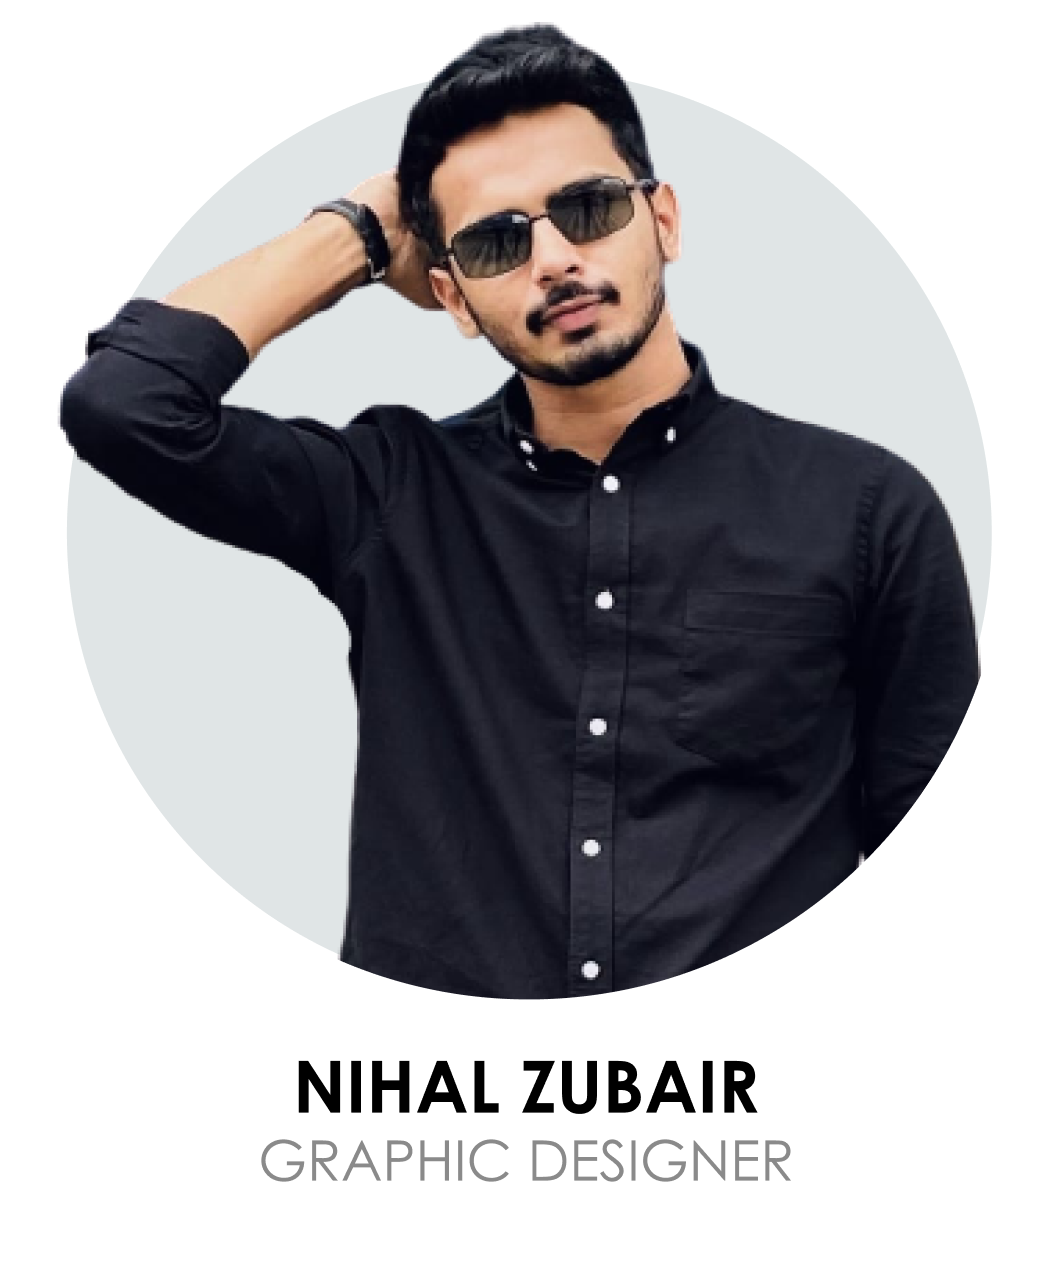
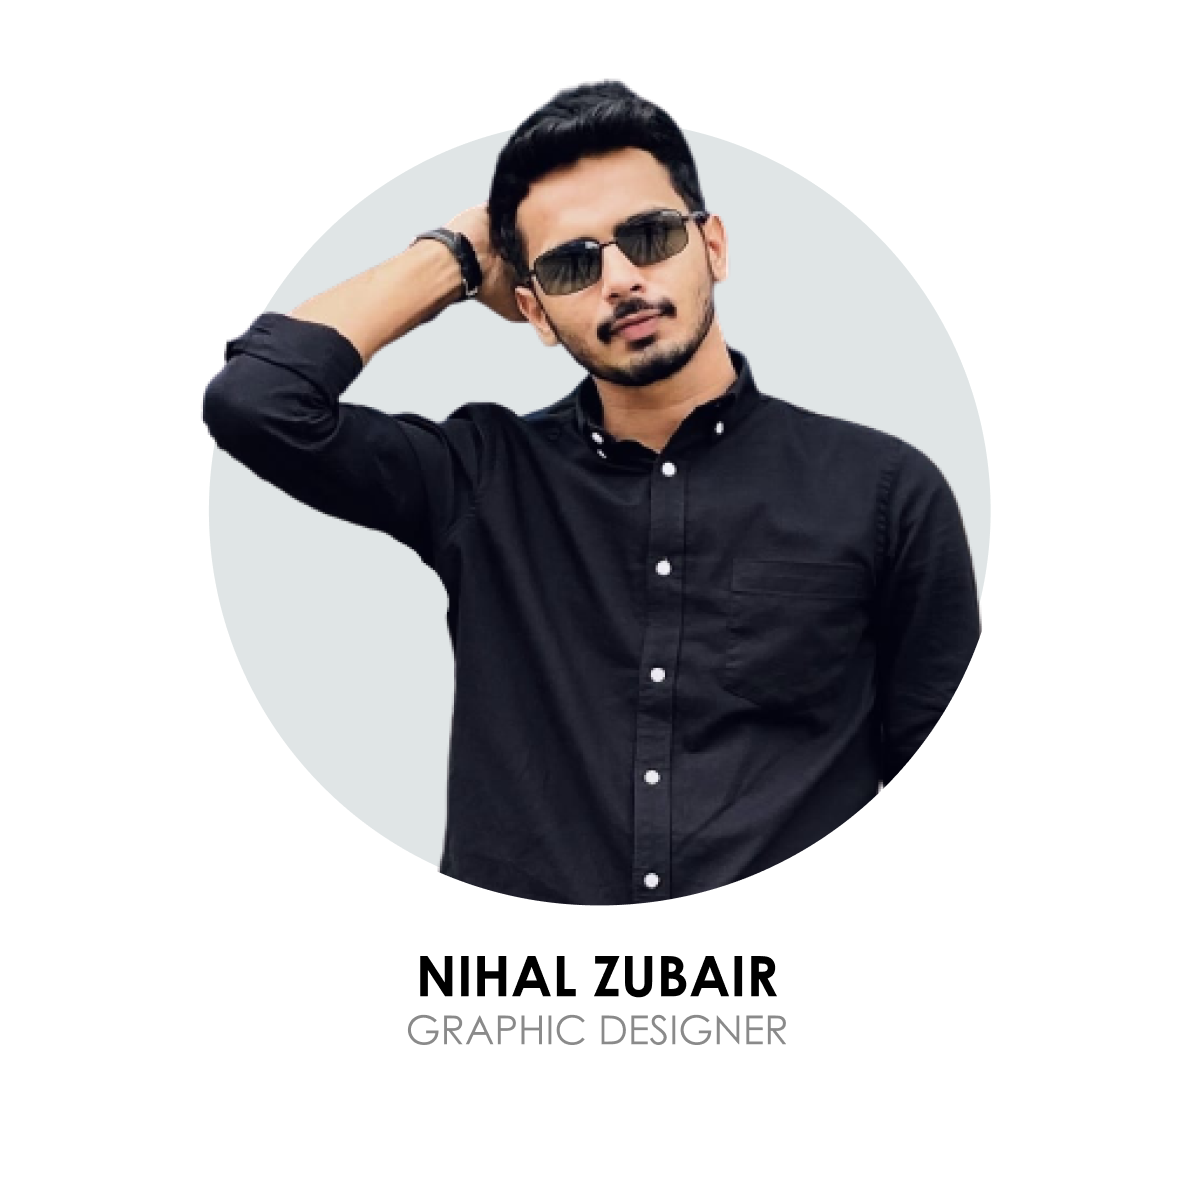
people pics updated

diff --git a/people.html b/people.html
@@ -285,7 +285,6 @@ height="0" width="0" style="display:none;visibility:hidden"></iframe></noscript>
 						loading="lazy"
 						src="./assets/team/Group 4.png"
 						alt="Nitha"
-						style="width: 60%; margin-top: -38px;"
 					/> 
 				</div>
 				<div class="image-container">
@@ -293,7 +292,6 @@ height="0" width="0" style="display:none;visibility:hidden"></iframe></noscript>
 						loading="lazy"
 						src="./assets/team/Group 5.png"
 						alt="Dark Lord"
-						style="width: 60%; margin-top: -38px;"
 					/>
 				</div>
 				<div class="image-container">
@@ -308,7 +306,6 @@ height="0" width="0" style="display:none;visibility:hidden"></iframe></noscript>
 						loading="lazy"
 						src="./assets/team/Group 8.png"
 						alt="Ajlab"
-						style="width: 60%;"
 					/>
 				</div>
 				<div class="image-container">
@@ -316,7 +313,6 @@ height="0" width="0" style="display:none;visibility:hidden"></iframe></noscript>
 						loading="lazy"
 						src="./assets/team/Group 9.png"
 						alt="Karan"
-						style="width: 60%;"
 					/>
 				</div>
 				<div class="image-container">
@@ -324,7 +320,6 @@ height="0" width="0" style="display:none;visibility:hidden"></iframe></noscript>
 						loading="lazy"
 						src="./assets/team/Group 10.png"
 						alt="Fazil"
-						style="width: 60%;"
 					/>
 				</div>
 				<div class="image-container">
@@ -332,7 +327,13 @@ height="0" width="0" style="display:none;visibility:hidden"></iframe></noscript>
 						loading="lazy"
 						src="./assets/team/Group 26.png"
 						alt="Nihal"
-						style="width: 60%;"
+					/>
+				</div>
+				<div class="image-container">
+					<img
+						loading="lazy"
+						src="./assets/team/Group 35.png"
+						alt="Shilpa"
 					/>
 				</div>
 			</div>
